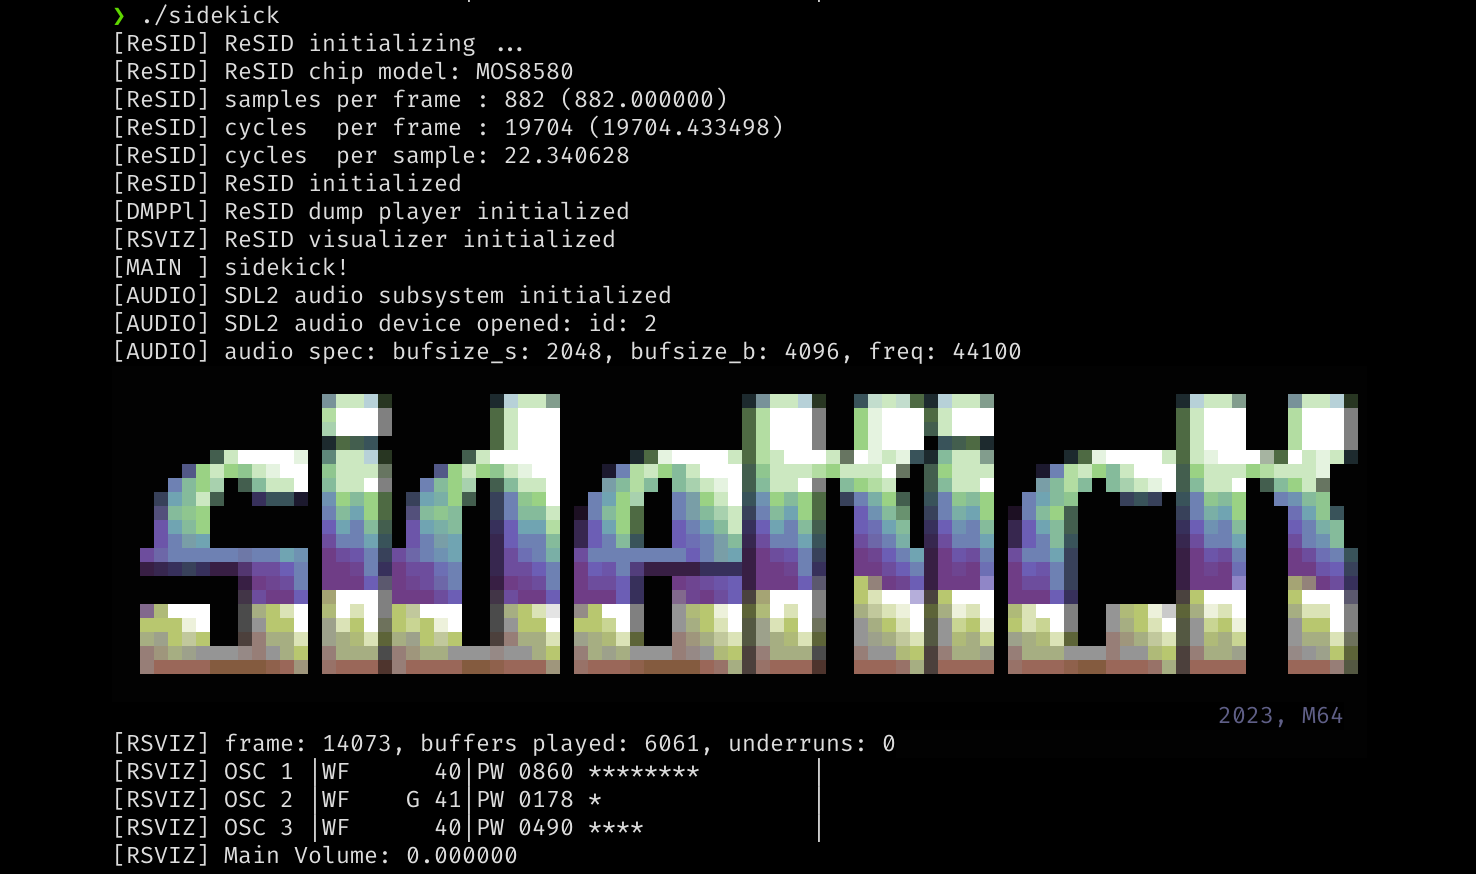
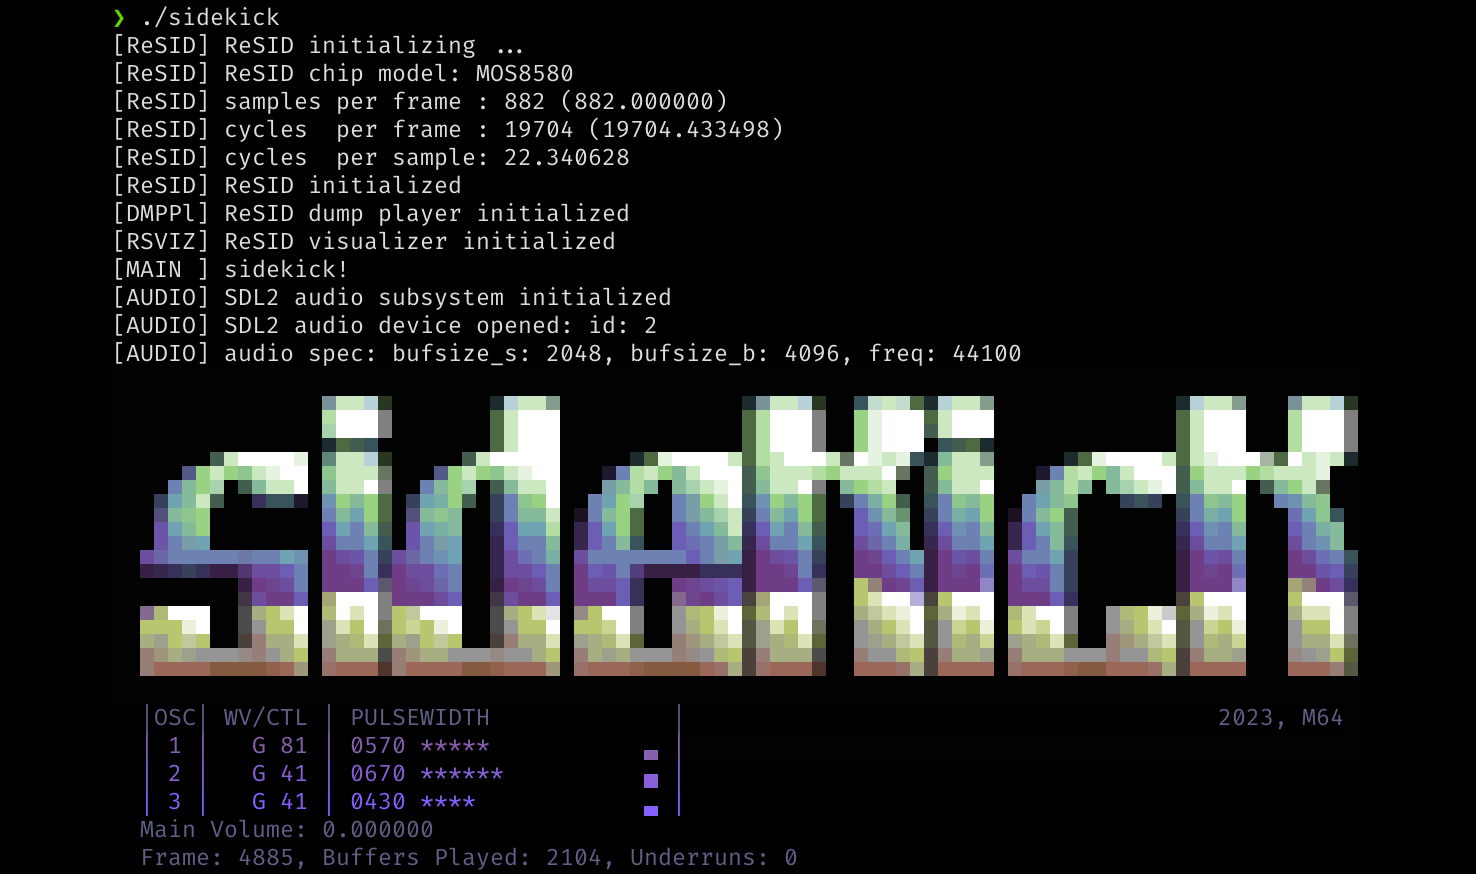
add v-bars, colors to output

diff --git a/resid-visualizer.cpp b/resid-visualizer.cpp
@@ -16,81 +16,66 @@ ReSIDVisualizer::~ReSIDVisualizer()
 
 void ReSIDVisualizer::visualize()
 {
-    int i;
-    char bar16[17];
-    bar16[16] = 0;
+    printf("\x1b[38;5;60m"); // color
 
-    printf("[RSVIZ] frame: %lu, buffers played: %lu, underruns: %lu\n",
+    printf("  |OSC| WV/CTL | PULSEWIDTH             |\n");
+
+    for(int i=0; i<3; i++) {
+        visualizeOsc(i + 1);
+    }
+
+    printf("\x1b[38;5;60m"); // color
+    
+    // -- MAIN Volume
+    printf("  Main Volume: %f\n", 0.0);
+
+    printf("  Frame: %lu, Buffers Played: %lu, Underruns: %lu\n",
         D->stat_framectr, 
         D->stat_cnt,
         D->stat_buf_underruns
         );
 
-    // -- OSC 1 WF, PW
-    printf("[RSVIZ] OSC 1 |WF ");
-    // if(R->shadow_regs[0x04] & 1) printf("*"); else printf(" ");
-    if(R->shadow_regs[0x04] & 8) printf("T"); else printf(" ");
-    if(R->shadow_regs[0x04] & 4) printf("R"); else printf(" ");
-    if(R->shadow_regs[0x04] & 2) printf("S"); else printf(" ");
-    if(R->shadow_regs[0x04] & 1) printf("G"); else printf(" ");
-    printf(" %02x|PW %02x%02x ",
-        R->shadow_regs[0x04],        // WF 1
-        R->shadow_regs[0x03] & 0x0f, // PW 1 HI (4bit)
-        R->shadow_regs[0x02]         // PW 1 LO (8bit)
-        );
-
-    // PW h-bar
-    for(i=0;i<0x10;i++) {
-        if( i < (R->shadow_regs[0x03] & 0x0f) ) bar16[i] = '*'; 
-        else bar16[i] = ' ';
-    }
-    printf("%s|\n", bar16);
-
-    // -- OSC 2 WF, PW
-    printf("[RSVIZ] OSC 2 |WF ");
-    // if(R->shadow_regs[0x0B] & 1) printf("*"); else printf(" ");
-    if(R->shadow_regs[0x0B] & 8) printf("T"); else printf(" ");
-    if(R->shadow_regs[0x0B] & 4) printf("R"); else printf(" ");
-    if(R->shadow_regs[0x0B] & 2) printf("S"); else printf(" ");
-    if(R->shadow_regs[0x0B] & 1) printf("G"); else printf(" ");
-    printf(" %02x|PW %02x%02x ",
-        R->shadow_regs[0x0B],        // WF 2
-        R->shadow_regs[0x0A] & 0x0f, // PW 2 HI (4bit)
-        R->shadow_regs[0x09]         // PW 2 LO (8bit)
-        );
-
-    // PW h-bar
-    for(i=0;i<0x10;i++) {
-        if( i < (R->shadow_regs[0x0A] & 0x0f) ) bar16[i] = '*'; 
-        else bar16[i] = ' ';
-    }
-    printf("%s|\n", bar16);
-
-    // -- OSC 3 WF, PW
-    printf("[RSVIZ] OSC 3 |WF ");
-    // if(R->shadow_regs[0x12] & 1) printf("*"); else printf(" ");
-    if(R->shadow_regs[0x12] & 8) printf("T"); else printf(" ");
-    if(R->shadow_regs[0x12] & 4) printf("R"); else printf(" ");
-    if(R->shadow_regs[0x12] & 2) printf("S"); else printf(" ");
-    if(R->shadow_regs[0x12] & 1) printf("G"); else printf(" ");
-    printf(" %02x|PW %02x%02x ",
-        R->shadow_regs[0x12],        // WF 3
-        R->shadow_regs[0x11] & 0x0f, // PW 3 HI (4bit)
-        R->shadow_regs[0x10]         // PW 3 LO (8bit)
-        );
-
-    // PW h-bar
-    for(i=0;i<0x10;i++) {
-        if( i < (R->shadow_regs[0x11] & 0x0f) ) bar16[i] = '*'; 
-        else bar16[i] = ' ';
-    }
-    printf("%s|\n", bar16);
-
-    // -- MAIN Volume
-    printf("[RSVIZ] Main Volume: %f\n", 0.0);
-
-
-    printf("\x1b[5A");
+    printf("\x1b[6A");
     fflush(stdout);
+}
+
+// nr: 1...3
+// returns: # of lines printed
+int ReSIDVisualizer::visualizeOsc(int nr) 
+{
+    int  i;
+    char bar16[17];
+    bar16[16] = 0;
+    char unicode[8];
+    unicode[0] = 0;
+
+    int osc_base = (nr-1) * 7;
+    printf("\x1b[38;5;%dm", nr - 1 + 97); 
+    // -- OSC CTRL bits, WF, PW
+    printf("  | %d |", nr);
+    if(R->shadow_regs[osc_base + 0x04] & 8) printf("T"); else printf(" ");
+    if(R->shadow_regs[osc_base + 0x04] & 4) printf("R"); else printf(" ");
+    if(R->shadow_regs[osc_base + 0x04] & 2) printf("S"); else printf(" ");
+    if(R->shadow_regs[osc_base + 0x04] & 1) printf("G"); else printf(" ");
+    printf(" %02x | %02x%02x ",
+        R->shadow_regs[osc_base + 0x04],        // WF 1
+        R->shadow_regs[osc_base + 0x03] & 0x0f, // PW 1 HI (4bit)
+        R->shadow_regs[osc_base + 0x02]         // PW 1 LO (8bit)
+        );
+
+    // PW h-bar
+    for(i=0;i<0x10;i++) {
+        if( i < (R->shadow_regs[osc_base + 0x03] & 0x0f) ) bar16[i] = '*'; 
+        else bar16[i] = ' ';
+    }
+    printf("%s", bar16);
+
+    // PW v-bar (8 steps)
+    int v_val = (R->shadow_regs[osc_base + 0x03] & 0x0f) >> 1;
+    // U+2581 + v_val
+    printf("%c%c%c |", 0xe2, 0x96, 0x81 + v_val);
+
+    printf("\n");
+    return 1;
 }
 

diff --git a/main.cpp b/main.cpp
@@ -41,7 +41,7 @@ int main(int argc, char **argv)
     printf(
         "                                            "
         "                                   ");
-    printf("2023, M64\n");
+    printf("2023, M64\r");
     printf("\x1b[0m");
     
     // -- play sid dmp
@@ -60,6 +60,7 @@ int main(int argc, char **argv)
         if(SDL_PollEvent(&event)) {
             switch(event.type) {
             case SDL_QUIT:
+                printf("\x1b[4B");       // 2 lines up
                 printf("\n[MAIN ] ctrl-c hit, exitting ...\n");
                 printf("\x1b[?25h");
                 printf("\x1b[0m");

diff --git a/resid-visualizer.h b/resid-visualizer.h
@@ -11,6 +11,7 @@ public:
     ~ReSIDVisualizer();
 
     void visualize();
+    int visualizeOsc(int nr); // returns # of lines
 
 private:
     ReSID *R;
